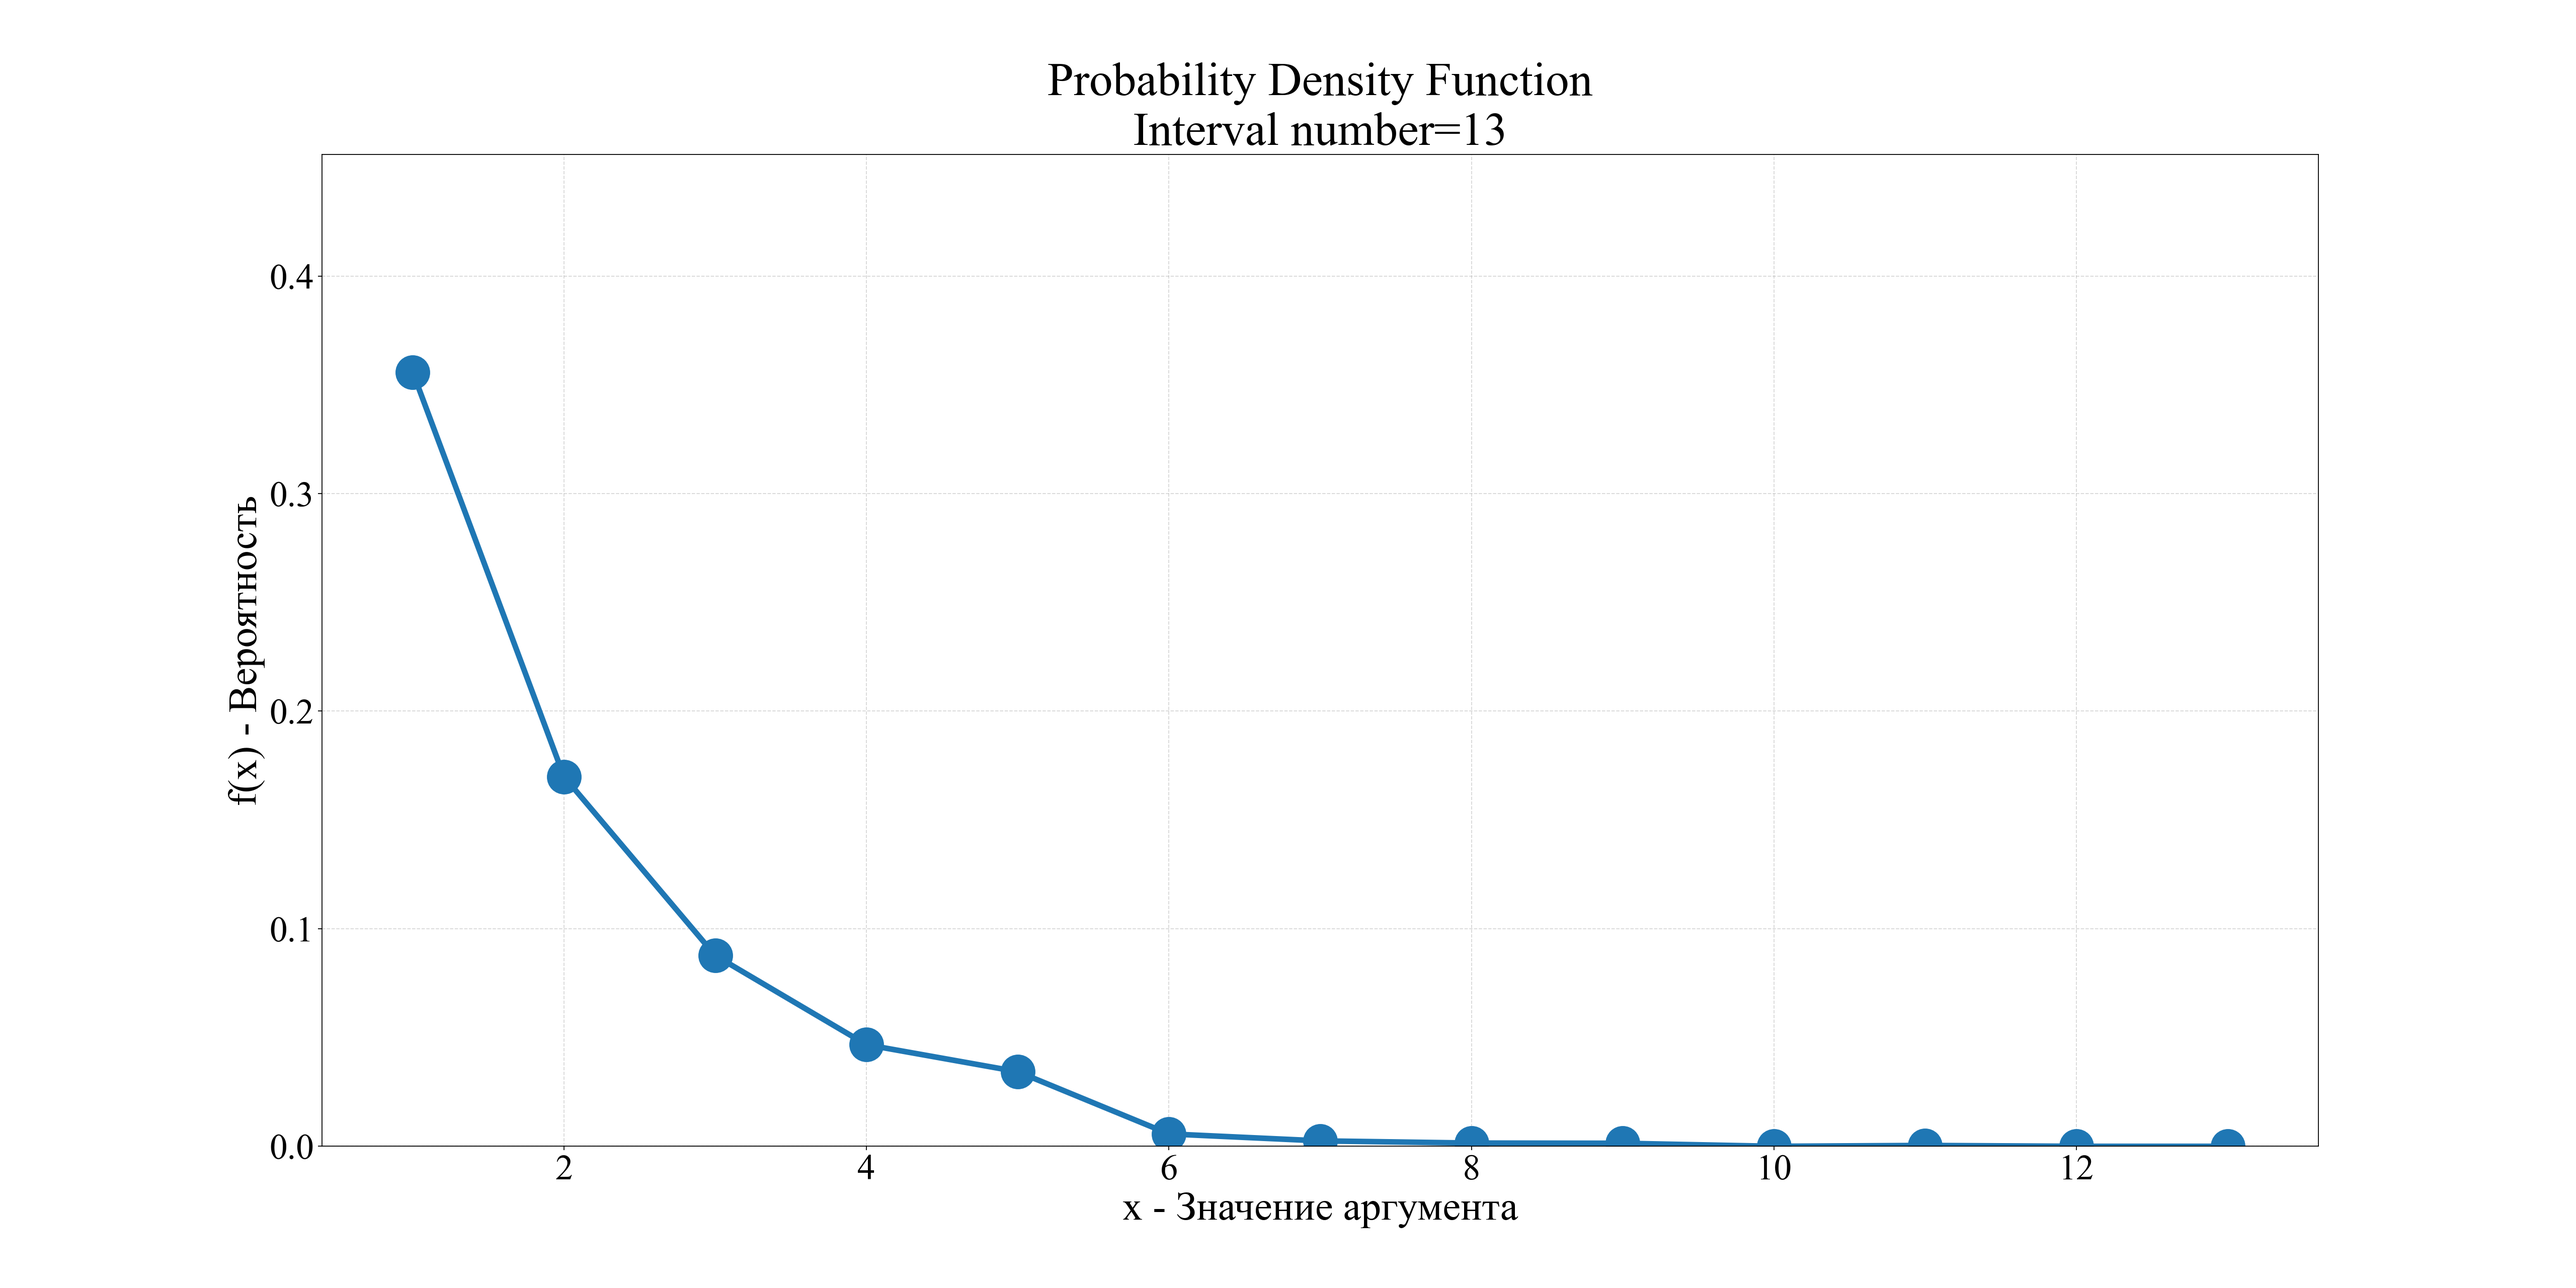
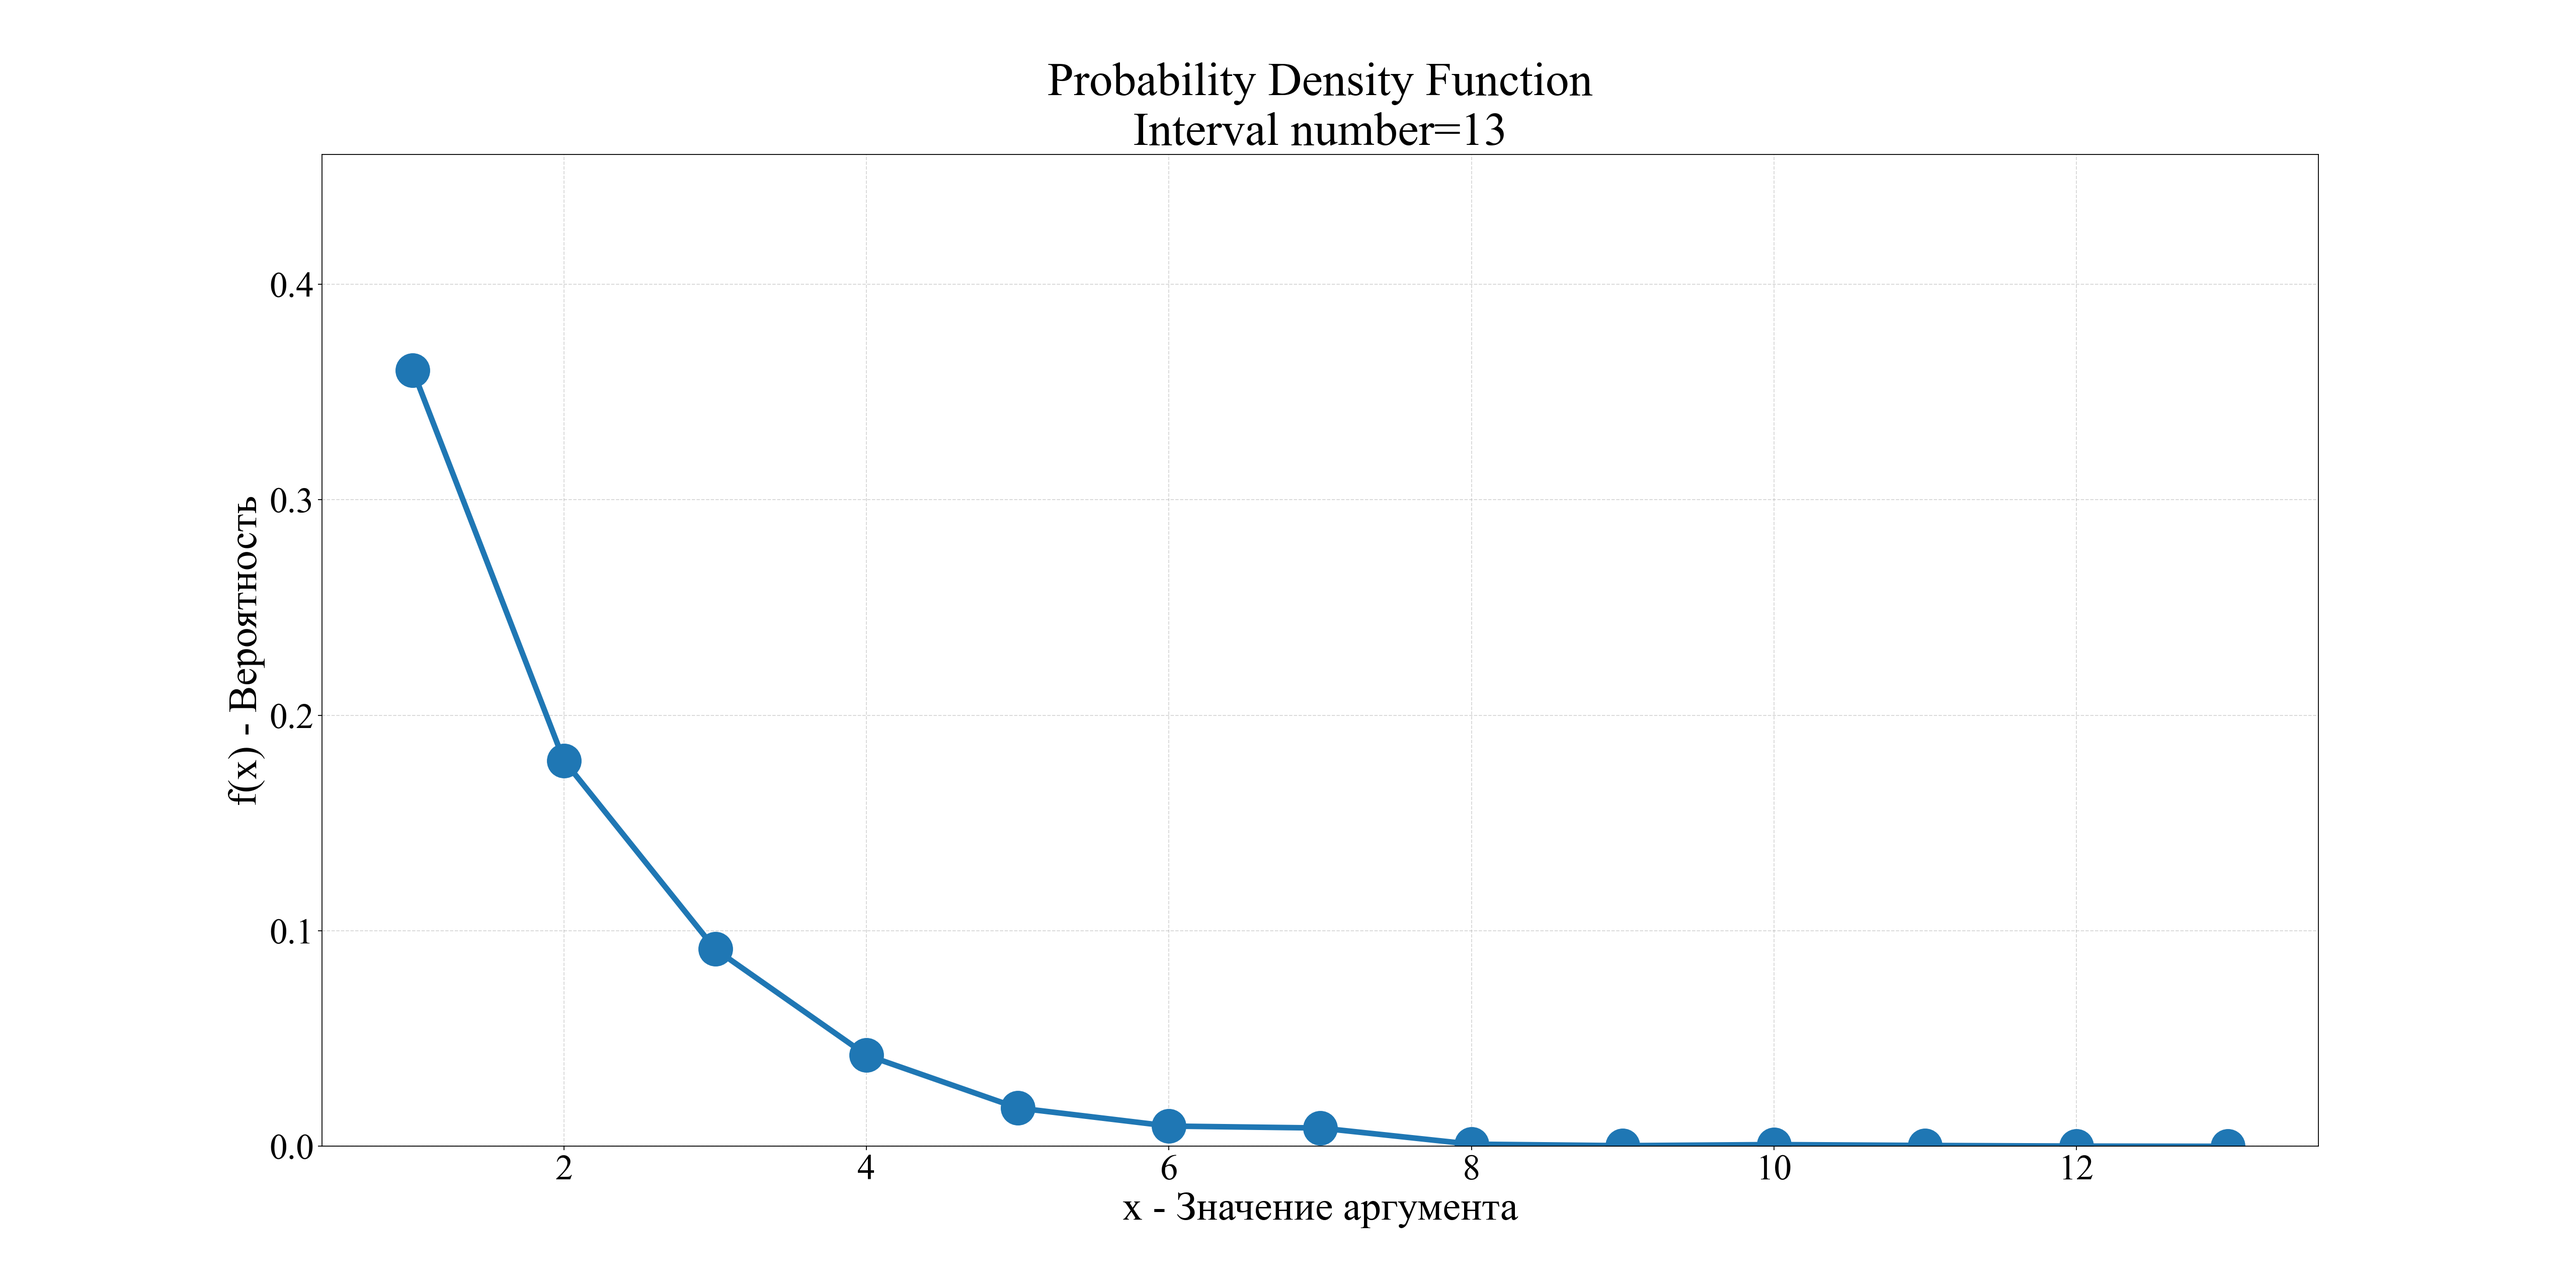
增加 二项分布算法

diff --git a/002 - lab2/main.py b/002 - lab2/main.py
@@ -56,7 +56,7 @@ def binomial_distribution():
     RU：Биномиальное распределение(2.2)
     :return: None
     """
-    arr_binomial = np.random.binomial(n=10, p=0.5, size=10000)
+    arr_binomial = irandom.irnbnl(n=10, p=0.5, size=10000)
     M = arr_binomial.mean()
     D = arr_binomial.var()
 
@@ -169,19 +169,19 @@ if __name__ == '__main__':
     # uniform_distribution()
 
     # 【2.2】БИНОМИАЛЬНОЕ РАСПРЕДЕЛЕНИЕ
-    # binomial_distribution()
+    binomial_distribution()
 
     # 【2.3.1】ГЕОМЕТРИЧЕСКОЕ РАСПРЕДЕЛЕНИЕ (Алгоритм 1)
-    geometric_distribution(arr_geometric=irandom.irngeo_1(p=0.5, size=10000),
-                           img_save_fold='./result/【2.3.1】Geometric distribution/')
+    # geometric_distribution(arr_geometric=irandom.irngeo_1(p=0.5, size=10000),
+    #                        img_save_fold='./result/【2.3.1】Geometric distribution/')
 
     # 【2.3.2】ГЕОМЕТРИЧЕСКОЕ РАСПРЕДЕЛЕНИЕ (Алгоритм 2)
-    geometric_distribution(arr_geometric=irandom.irngeo_2(p=0.5, size=10000),
-                           img_save_fold='./result/【2.3.2】Geometric distribution/')
+    # geometric_distribution(arr_geometric=irandom.irngeo_2(p=0.5, size=10000),
+    #                        img_save_fold='./result/【2.3.2】Geometric distribution/')
 
     # 【2.3.3】ГЕОМЕТРИЧЕСКОЕ РАСПРЕДЕЛЕНИЕ (Алгоритм 3)
-    geometric_distribution(arr_geometric=irandom.irngeo_3(p=0.5, size=10000),
-                           img_save_fold='./result/【2.3.3】Geometric distribution/')
+    # geometric_distribution(arr_geometric=irandom.irngeo_3(p=0.5, size=10000),
+    #                        img_save_fold='./result/【2.3.3】Geometric distribution/')
 
     # 【2.4.1】РАСПРЕДЕЛЕНИЕ ПУАССОНА (Алгоритм 1)
     # poisson_distribution(arr_poisson=irandom.irnpoi(mu=10, size=10000),

diff --git a/002 - lab2/irandom.py b/002 - lab2/irandom.py
@@ -10,6 +10,35 @@
 import numpy as np
 import math
 
+def irnbnl(n: int, p: float, size: int) -> np.ndarray:
+    """
+    二项分布
+    :param n: [0, ] int
+    :param p: [0, 1] float
+    :param size: 数组大小
+    :return: 具有二项分布的 numpy.ndarry
+    """
+    if n < 0 or p < 0 or p > 1 or size <= 0:
+        raise ValueError
+
+    arr_irnbnl = []
+
+    for i in range(size):
+        if n >= 100:
+            m = round(np.random.normal(loc=n * p, scale=math.sqrt(n * p * (1 - p)), size=1) + 0.5)
+            arr_irnbnl.append(m)
+        else:
+            i_uniform = np.random.uniform(low=0, high=1, size=1)
+            p_r = (1 - p) ** n
+            m = 0
+            while (i_uniform - p_r) >= 0:
+                i_uniform -= p_r
+                p_r *= ((p * (n - m)) / ((m + 1) * (1 - p)))
+                m += 1
+            arr_irnbnl.append(m)
+
+    return np.array(arr_irnbnl)
+
 
 def irngeo_1(p: float, size: int) -> np.ndarray:
     """
